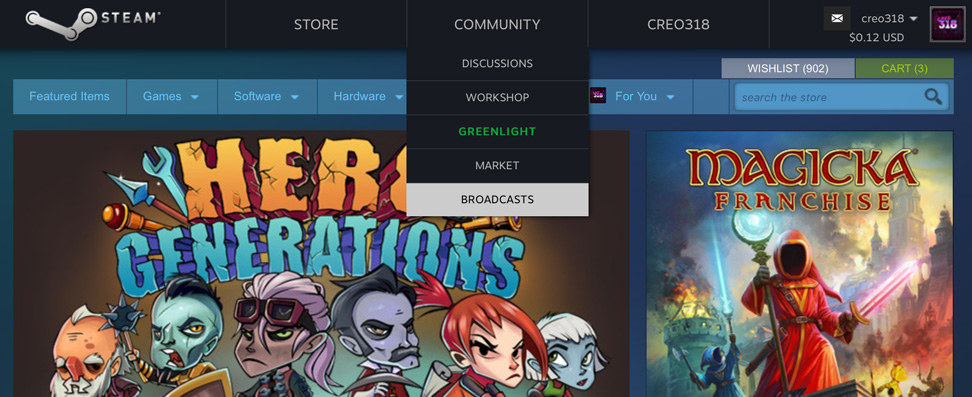
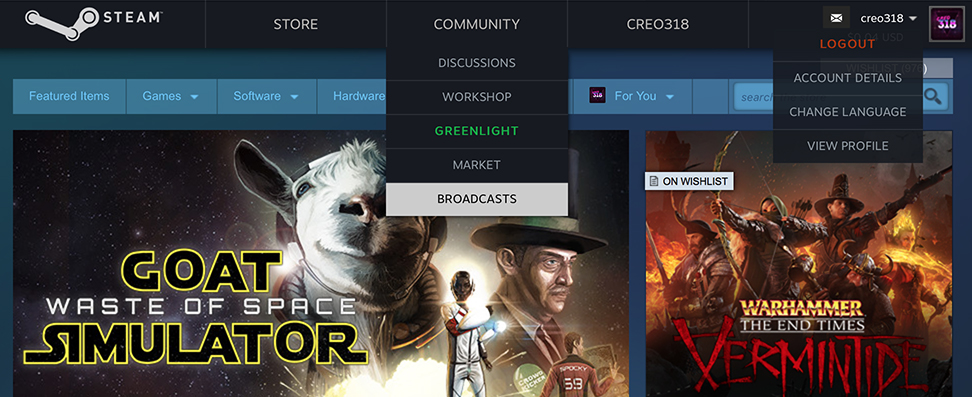
1.6

diff --git a/styles.css b/styles.css
@@ -1,7 +1,7 @@
 /**
  * Simply Steam UI
  * Created by Denis G.
- * Last update: 2016-27-05
+ * Last update: 2016-31-05
  *
  * Use Github for submit your request or issues.
  * https://github.com/denis-g/userstyle-simply-steam-ui
@@ -9,6 +9,7 @@
 
 @namespace url('http://www.w3.org/1999/xhtml');
 @-moz-document domain('store.steampowered.com'), domain('steamcommunity.com') {
+/* ---BEGIN--- */
 
 /*************
     HEADER
@@ -33,61 +34,75 @@ html body div#global_header {
 		background: none;
 		}
 		html body div#global_header div.logo {
-			padding-top: 8px;
+			padding: 0;
+			margin: 0;
 			width: auto;
 			height: auto;
 			}
+			html body div#global_header div.logo a {
+				display: block;
+				width: 140px;
+				height: 48px;
+				background: url(//store.akamai.steamstatic.com/public/shared/images/responsive/header_logo.png) no-repeat 0 50%;
+				background-size: auto 34px;
+				opacity: 0.8;
+				}
+			html body div#global_header div.logo a:hover {
+				opacity: 1;
+				}
 			html body div#global_header div.logo img {
-				width: auto;
-				height: 34px;
+				display: none;
 				}
-		html body div#global_header .menuitem {
-			width: 180px;
-			text-align: center;
-			padding: 0;
-			line-height: 48px;
-			border-right: 1px solid rgba(255, 255, 255, 0.1);
+		html body div#global_header .supernav_container{
+			left: 190px;
 			}
-		html body div#global_header .menuitem:first-child {
-			border-left: 1px solid rgba(255, 255, 255, 0.1);
-			}
-		html body div#global_header .menuitem:hover {
-			color: #000;
-			background: #ccc;
-			}
-			html body div#global_header .submenuitem {
-				color: #8F98A0;
-				font-size: 12px;
-				font-weight: normal;;
-				line-height: 1.1;
-				padding: 10px 14px;
+			html body div#global_header .menuitem {
+				width: 180px;
 				text-align: center;
+				padding: 0;
+				line-height: 48px;
+				border-right: 1px solid rgba(255, 255, 255, 0.1);
 				}
-			html body div#global_header .submenuitem:not(:last-child) {
-				border-bottom: 1px solid rgba(255, 255, 255, 0.1);
+			html body div#global_header .menuitem:first-child {
+				border-left: 1px solid rgba(255, 255, 255, 0.1);
 				}
-			html body div#global_header .submenuitem:hover {
+			html body div#global_header .menuitem:hover {
 				color: #000;
 				background: #ccc;
 				}
-			html body div#global_header .submenuitem[href="http://steamcommunity.com/greenlight/"] {
-				color: #00b043;
-				font-weight: bold;
+				html body div#global_header .submenuitem {
+					color: #8F98A0;
+					font-size: 12px;
+					font-weight: normal;;
+					line-height: 1.1;
+					padding: 10px 14px;
+					text-align: center;
+					}
+				html body div#global_header .submenuitem:not(:last-child) {
+					border-bottom: 1px solid rgba(255, 255, 255, 0.1);
+					}
+				html body div#global_header .submenuitem:hover {
+					color: #000;
+					background: #ccc;
+					}
+				html body div#global_header .submenuitem[href="http://steamcommunity.com/greenlight/"] {
+					color: #00b043;
+					font-weight: bold;
+					}
+				html body div#global_header .submenuitem[href="http://steamcommunity.com/greenlight/"]:hover {
+					color: #fff;
+					background: #00b043;
+					}
+			html body div#global_header .supernav_content {
+				padding: 0;
+				width: 182px;
+				max-width: none;
+				margin: 3px 0 0 0;
 				}
-			html body div#global_header .submenuitem[href="http://steamcommunity.com/greenlight/"]:hover {
-				color: #fff;
-				background: #00b043;
+			html body div#global_header div[data-submenuid] {
+				width: 100%;
+				max-width: none;
 				}
-		html body div#global_header .supernav_content {
-			padding: 0;
-			width: 182px;
-			max-width: none;
-			margin: 3px 0 0 0;
-			}
-		html body div#global_header div[data-submenuid] {
-			width: 100%;
-			max-width: none;
-			}
 		/* fix price in userbar */
 		html body div#global_actions a.global_action_link {
 			white-space: nowrap;
@@ -104,8 +119,10 @@ html body div#global_header {
 			html body div#global_action_menu .popup_block_new .popup_body {
 				border: none;
 				background: rgba(23, 26, 33, 0.9);
+				padding: 0;
 				}
-				html body div#global_action_menu .popup_menu .hr {
+				html body div#global_action_menu .popup_menu .hr,
+				html body div#global_action_menu .popup_menu .header_notification_dropdown_seperator {
 					display: none;
 					}
 				html body div#global_action_menu .popup_menu .popup_menu_item {
@@ -132,6 +149,26 @@ html body div#global_header {
 					color: #fff;
 					background: #b03500;
 					}
+			/* specially for notifications */
+			html body div#global_action_menu .popup_block_new#header_notification_dropdown {
+				}
+				html body div#global_action_menu .popup_block_new#header_notification_dropdown .notification_icon {
+					float: left;
+					}
+				html body div#global_action_menu .popup_block_new#header_notification_dropdown .notification_count {
+					font-weight: bold;
+					}
+				html body div#global_action_menu .popup_block_new#header_notification_dropdown .popup_menu_item {
+					text-align: left;
+					}
+			/* fixed height */
+			html body div#global_action_menu .popup_block_new#language_dropdown {
+				}
+				html body div#global_action_menu .popup_block_new#language_dropdown .popup_body {
+					max-height: 260px;
+					overflow-y: auto;
+					-webkit-overflow-scrolling: touch;
+					}
 
 
 /***************
@@ -144,28 +181,16 @@ html body .store_nav .tab {
 html body div#store_search {
 	border-left: 1px solid rgba(0, 0, 0, 0.3);
 	}
+html body a.home_smallcap,
+html body .curated_app_item,
+html body .game_description_column .block .block_content a {
+	border-color: rgba(0,0,0,0.5);
+	}
 
 
 /***************
     WISHLIST
 ****************/
-/* sort options stylish */
-html body #wishlist_sort_options.sort_options a,
-html body #wishlist_sort_options.sort_options .selected_sort {
-	font-size: 11px;
-	display: inline-block;
-	vertical-align: middle;
-	padding: 6px 8px;
-	color: #407898;
-	text-decoration: none;
-	}
-html body #wishlist_sort_options.sort_options a:hover {
-	color: #fff;
-	}
-html body #wishlist_sort_options.sort_options .selected_sort {
-	color: #67c1f5;
-	background: #18222e;
-	}
 /* usability fix */
 html body #wishlist_items input.wishlist_rank {
 	font-size: 11px;
@@ -179,17 +204,53 @@ html body #wishlist_items .price {
 	}
 
 
-/*************
-    BADGES
-**************/
-html body .profile_xp_block_remaining_bar_progress {
-	background: #ccc;
+/***************
+    IMAGES
+****************/
+/* usability fix */
+html body .sharedfiles_usercontrols_label {
+	vertical-align: middle;
+	}
+
+
+/***************
+    SORTING
+****************/
+html body .sort_options a,
+html body .sort_options .selected_sort,
+html body #friends_sort_options span {
+	display: inline-block;
+	vertical-align: middle;
+	padding: 6px 8px;
+	margin: 0;
+	font-size: 11px;
+	line-height: 1.2;
+	color: #407898;
+	text-decoration: none;
+	}
+html body #friends_sort_options span {
+	margin-left: 0.75em;
+	}
+html body .sort_options a:hover,
+html body #friends_sort_options span:hover {
+	color: #fff;
+	}
+html body .sort_options .selected_sort,
+html body #friends_sort_options span:not(.es_friends_sort_link) {
+	color: #67c1f5;
+	background: #18222e;
+	text-decoration: none;
 	}
 
 
 /*************
-    PROFILE
+    BADGES
 **************/
+/* in badges page */
+html body .profile_xp_block_remaining_bar_progress {
+	background: #ccc;
+	}
+/* in profile page */
 html body .achievement_progress_bar_ctn {
 	border: none;
 	box-shadow: none;
@@ -214,13 +275,7 @@ html body .header_installsteam_btn,
 html body div#global_header .menuitem[href^="https://help.steampowered.com/"],
 html body div#global_header .menuitem[href="http://store.steampowered.com/about/"],
 html body div#global_header .submenuitem[href="http://store.steampowered.com/"],
-html body div#global_header .submenuitem[href="http://steamcommunity.com/"],
-/* asian languages */
-html body div#global_action_menu .popup_menu .popup_menu_item[href="?l=japanese"],
-html body div#global_action_menu .popup_menu .popup_menu_item[href="?l=koreana"],
-html body div#global_action_menu .popup_menu .popup_menu_item[href="?l=schinese"],
-html body div#global_action_menu .popup_menu .popup_menu_item[href="?l=tchinese"],
-html body div#global_action_menu .popup_menu .popup_menu_item[href="?l=thai"] {
+html body div#global_header .submenuitem[href="http://steamcommunity.com/"] {
 	display: none;
 	}
 
@@ -289,6 +344,7 @@ html body .achievement_progress_bar_ctn,
 html body .achievement_progress_bar_ctn .progress_bar,
 html body .profile_xp_block_remaining_bar,
 html body .profile_xp_block_remaining_bar_progress,
+html body .apphub_ProgressBarBG,
 /* all buttons */
 html body div.store_header_btn,
 html body .home_btn,
@@ -346,6 +402,7 @@ html body .blotter_comment_thread .commentthread_entry_quotebox,
 html body .profileFriendSearchBox,
 html body div#headerSearch.friend_activity_header_search,
 html body div.filterselect,
+html body .review_controls .controlblock .dselect_container,
 /* popups */
 html body .newmodal_header_border,
 html body .newmodal_header,
@@ -369,7 +426,7 @@ html body .profile_customization {
 	background: #2D3C51;
 	box-shadow: inset -400px 20px 100px rgba(0, 0, 0, 0.5);
 	}
-/* remove buttons backgrounds */
+/* remove buttons background */
 html body .apphub_BackToTopButton.leftcap,
 html body .apphub_BackToTopButton.rightcap,
 html body .alertbox_header .leftcap,
@@ -379,7 +436,10 @@ html body .item_market_action_button_right {
 	display: none;
 	}
 
-/* enhancedsteam support */
+
+/*************
+ ENHANCEDSTEAM
+**************/
 html body .blotter_author_block .es_highlight_owned,
 html body .blotter_author_block .es_highlight_wishlist,
 html body .blotter_author_block .es_highlight_coupon,
@@ -425,5 +485,10 @@ html body #es_progress.error::-webkit-progress-value {
 	border-radius: 0;
 	box-shadow: none;
 	}
+html body .es_highlight_wishlist .col.search_released {
+	/* readibily */
+	color: rgba(255,255,255,0.3);
+	}
 
+/* ---END--- */
 }

diff --git a/README.md b/README.md
@@ -1,7 +1,7 @@
 # Simply Steam UI
 
-Clean and simply store and community redesign. More square and geometry-focused
-design.  
+Clean and simply Steam store and community redesign. More square
+and geometry-focused design.  
 *With [Enhanced Steam](http://enhancedsteam.com) support.*
 
 ![](https://raw.githubusercontent.com/denis-g/userstyle-simply-steam-ui/master/screenshots/header.jpg)
@@ -12,5 +12,6 @@ design.
 from userstyles.org site and enjoy!
 
 Or install the Stylish extension for your browser (Chrome, Firefox, Opera,
-Safari, etc), then add css file as a new Style. Make sure it applies to
-the domain `store.steampowered.com` and `steamcommunity.com`.
+Safari, etc), then add css file (from `---BEGIN---` to `---END---`) as
+a new Style. Make sure it applies to the domain **`store.steampowered.com`**
+and **`steamcommunity.com`**.

diff --git a/CHANGELOG.md b/CHANGELOG.md
@@ -1,5 +1,15 @@
 # Change Log
 
+## v1.6
+* **global**
+- change logo
+- sorting style
+- enhanced steam fixes
+- squared... again
+* **user dropdown menu**
+- notification popup
+- languages popup
+
 ## v1.5.1
 * **global**
 - fix styles in Safari
